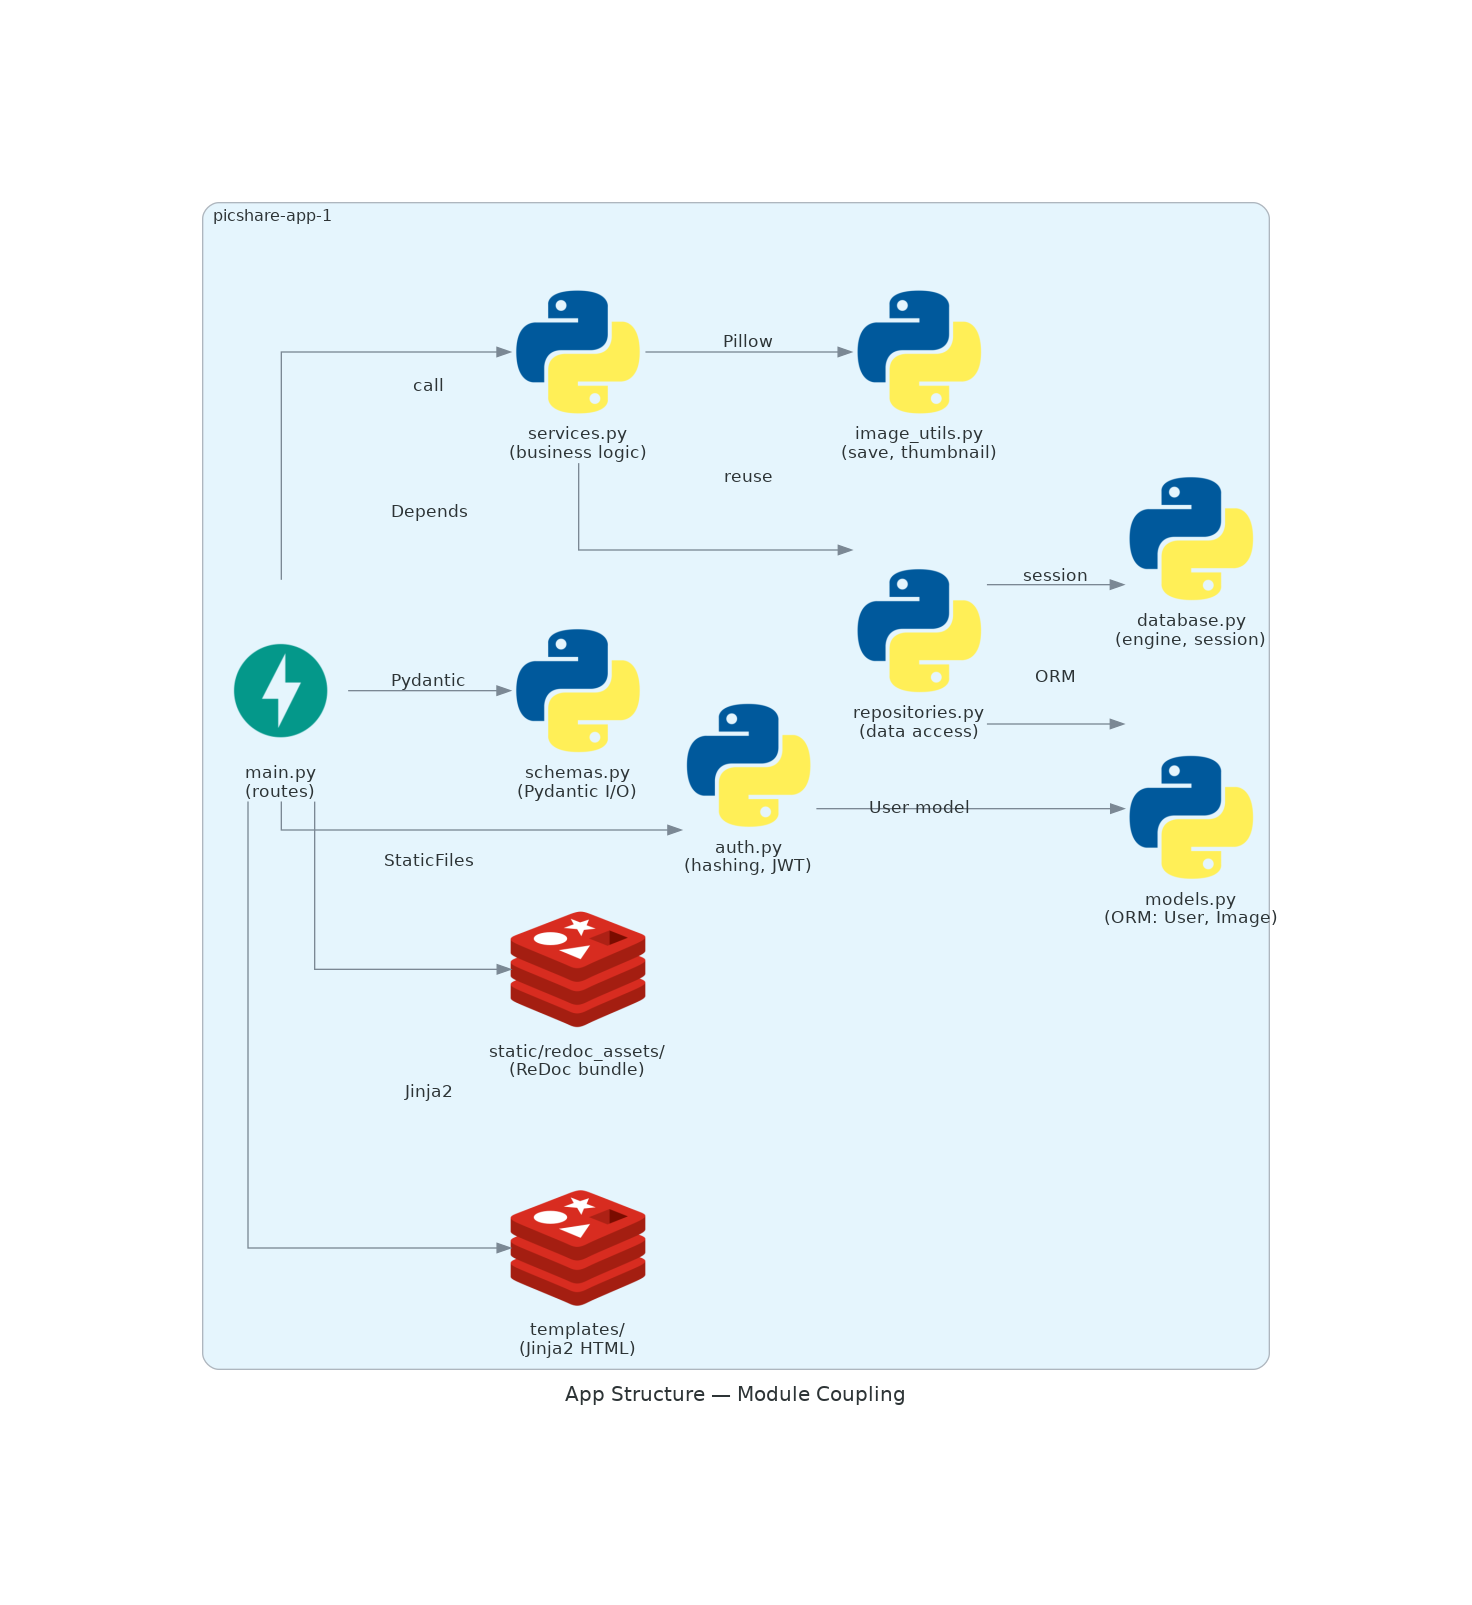
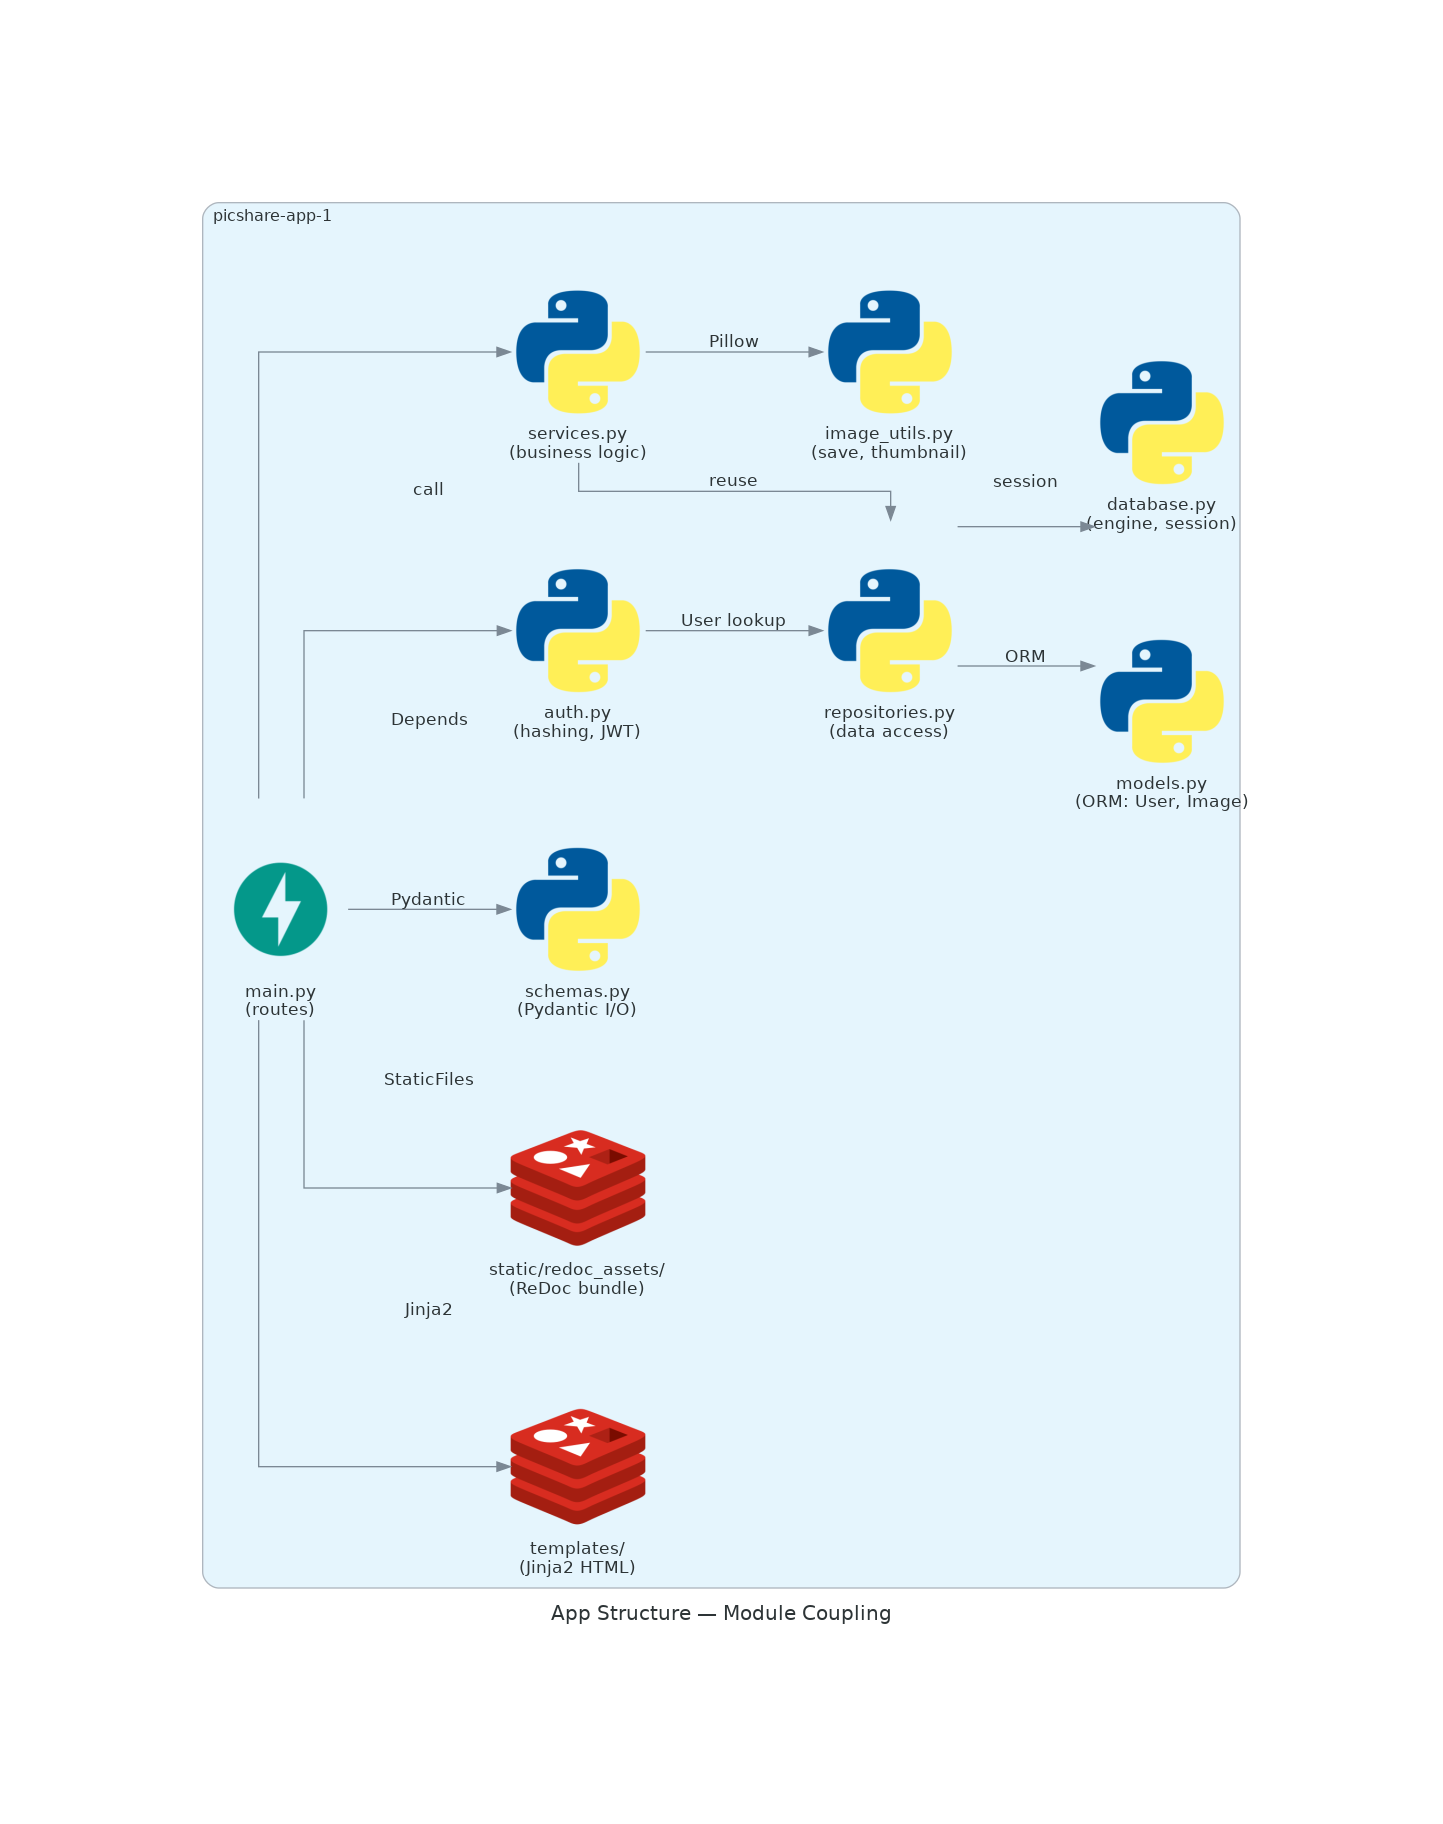
Route auth user lookup through UserRepository

diff --git a/app/auth.py b/app/auth.py
@@ -1,12 +1,14 @@
+import uuid
+
 from fastapi import Depends, HTTPException, status
 from fastapi.security import HTTPAuthorizationCredentials, HTTPBearer
 from jose import JWTError, jwt
 from passlib.context import CryptContext
-from sqlalchemy import select
 from sqlalchemy.ext.asyncio import AsyncSession
 
 from app.database import get_db, settings
 from app.models import User
+from app.repositories import UserRepository
 
 pwd_context = CryptContext(schemes=["bcrypt"])
 security = HTTPBearer()
@@ -37,8 +39,11 @@ async def get_current_user(
     db: AsyncSession = Depends(get_db),
 ) -> User:
     user_id = decode_token(credentials.credentials)
-    result = await db.execute(select(User).where(User.id == user_id))
-    user = result.scalar_one_or_none()
+    try:
+        parsed_id = uuid.UUID(user_id)
+    except ValueError:
+        raise HTTPException(status_code=status.HTTP_401_UNAUTHORIZED)
+    user = await UserRepository().get_by_id(db, parsed_id)
     if not user:
         raise HTTPException(status_code=status.HTTP_401_UNAUTHORIZED)
     return user

diff --git a/tests/test_repositories.py b/tests/test_repositories.py
@@ -1,3 +1,5 @@
+import uuid
+
 import pytest
 from sqlalchemy import select
 
@@ -45,3 +47,18 @@ async def test_create_persists_row_in_db(session):
     await repo.create(session, username="carol", hashed_password=hash_password("pw"))
     result = await session.execute(select(User).where(User.username == "carol"))
     assert result.scalar_one_or_none() is not None
+
+
+@pytest.mark.asyncio
+async def test_get_by_id_returns_user(session):
+    user = await repo.create(session, username="carol", hashed_password=hash_password("pw"))
+    found = await repo.get_by_id(session, user.id)
+    assert found is not None
+    assert found.id == user.id
+    assert found.username == "carol"
+
+
+@pytest.mark.asyncio
+async def test_get_by_id_missing_returns_none(session):
+    found = await repo.get_by_id(session, uuid.uuid4())
+    assert found is None

diff --git a/app/repositories.py b/app/repositories.py
@@ -11,6 +11,10 @@ class UserRepository:
         result = await db.execute(select(User).where(User.username == username))
         return result.scalar_one_or_none()
 
+    async def get_by_id(self, db: AsyncSession, user_id: uuid.UUID) -> User | None:
+        result = await db.execute(select(User).where(User.id == user_id))
+        return result.scalar_one_or_none()
+
     async def create(self, db: AsyncSession, username: str, hashed_password: str) -> User:
         user = User(username=username, hashed_password=hashed_password)
         db.add(user)

diff --git a/tests/test_auth.py b/tests/test_auth.py
@@ -1,6 +1,16 @@
 import pytest
+from jose import jwt
+
+from app.database import settings
 
 INVITE_CODE = "test-invite-42"
+
+
+@pytest.mark.asyncio
+async def test_me_invalid_uuid_token(client):
+    token = jwt.encode({"sub": "not-a-uuid"}, settings.secret_key, algorithm="HS256")
+    resp = await client.get("/me", headers={"Authorization": f"Bearer {token}"})
+    assert resp.status_code == 401
 
 
 @pytest.mark.asyncio

diff --git a/docs/diagram_scripts/modules.py b/docs/diagram_scripts/modules.py
@@ -30,7 +30,7 @@ with Diagram(
 
         services >> Edge(label="reuse") >> repos
         services >> Edge(label="Pillow") >> img_utils
-        auth >> Edge(label="User model") >> models
+        auth >> Edge(label="User lookup") >> repos
 
         repos >> Edge(label="ORM") >> models
         repos >> Edge(label="session") >> db
